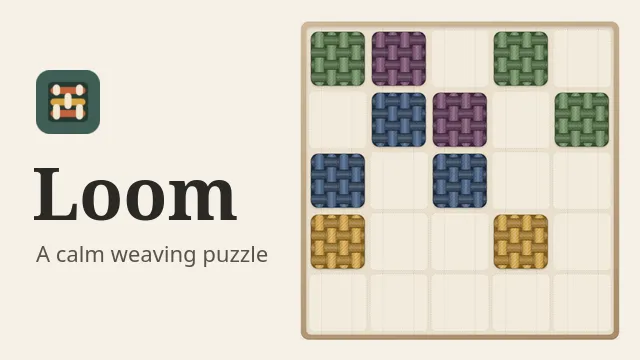
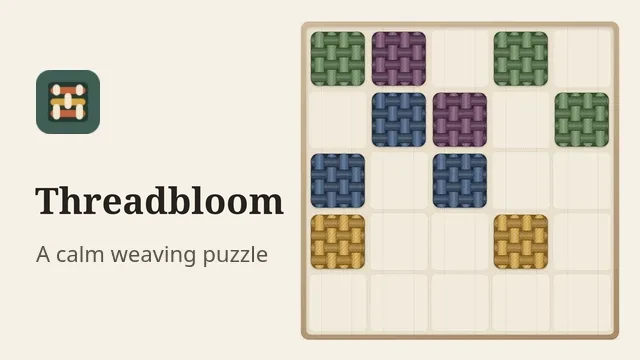
site: show Threadbloom instead of Loom in user-visible text
Titles, wordmark, manifest, games list, share/OG copy, and the three
pictures that had the old name drawn in them. The /loom/ address,
file names, CSS classes, and the loom. localStorage keys are unchanged.
Service worker cache: loom-v20 to loom-v21.

Public-output subset of CimTS/tinyhousegames 7190c57e (Mark REAL).
No playtest or Rotwatch files in this commit.

Changed region(s): [[0.0312, 0.4583, 0.4375, 0.6111]]

diff --git a/index.html b/index.html
@@ -2,7 +2,7 @@
 <html lang="en"><head><meta charset="utf-8">
 <meta name="viewport" content="width=device-width,initial-scale=1">
 <title>Tiny House Games</title>
-<meta name="description" content="Small games, made in a tiny house. Play Slotchinko, Dronesweeper and Loom free in your browser.">
+<meta name="description" content="Small games, made in a tiny house. Play Slotchinko, Dronesweeper and Threadbloom free in your browser.">
 <meta property="og:site_name" content="Tiny House Games">
 <meta property="og:title" content="Tiny House Games">
 <meta property="og:description" content="Small, cozy games, hand-made in a tiny house.">
@@ -11,7 +11,7 @@
 <meta property="og:image" content="https://tinyhousegames.com/og.jpg">
 <meta property="og:image:width" content="1200">
 <meta property="og:image:height" content="630">
-<meta property="og:image:alt" content="Tiny House Games title above cards for Slotchinko, Dronesweeper and Loom">
+<meta property="og:image:alt" content="Tiny House Games title above cards for Slotchinko, Dronesweeper and Threadbloom">
 <meta name="twitter:card" content="summary_large_image">
 <link rel="canonical" href="https://tinyhousegames.com/">
 <link rel="stylesheet" href="css/base.css">
@@ -35,7 +35,7 @@
 <div id="games-list"><!--games:start-->
 <article class="game-card"><img class="game-card__img" src="slotchinko.webp" alt="Slotchinko" loading="lazy" decoding="async"><h3 class="game-card__title">Slotchinko</h3><p class="game-card__blurb">Poker hands power a pachinko drop. Stack chips, beat the blinds.</p><a class="game-card__link pill" href="slotchinko/">▶ Play free in your browser</a></article>
 <article class="game-card"><img class="game-card__img" src="dronesweeper.webp" alt="Dronesweeper" loading="lazy" decoding="async"><h3 class="game-card__title">Dronesweeper</h3><p class="game-card__blurb">Minesweeper meets drone tactics. Read the noise, clear the site, stack the run.</p><a class="game-card__link pill" href="dronesweeper/">▶ Play free in your browser</a></article>
-<article class="game-card"><img class="game-card__img" src="loom.webp" alt="Loom" loading="lazy" decoding="async"><h3 class="game-card__title">Loom</h3><p class="game-card__blurb">A calm weaving puzzle. Bring matching threads together and see what patterns appear.</p><a class="game-card__link pill" href="loom/">▶ Play free in your browser</a></article>
+<article class="game-card"><img class="game-card__img" src="loom.webp" alt="Threadbloom" loading="lazy" decoding="async"><h3 class="game-card__title">Threadbloom</h3><p class="game-card__blurb">A calm weaving puzzle. Bring matching threads together and see what patterns appear.</p><a class="game-card__link pill" href="loom/">▶ Play free in your browser</a></article>
 <article class="game-card"><img class="game-card__img" src="geode-grove.webp" alt="Geode Grove" loading="lazy" decoding="async"><h3 class="game-card__title">Geode Grove</h3><p class="game-card__blurb">Match glowing gems deep in the grove. Coming soon to Google Play.</p></article>
 <article class="game-card"><img class="game-card__img" src="sparklewood.webp" alt="Sparklewood" loading="lazy" decoding="async"><h3 class="game-card__title">Sparklewood</h3><p class="game-card__blurb">A gentle, sparkly little world to wander. Coming soon.</p></article>
 <!--games:end--></div></section>

diff --git a/loom/index.html b/loom/index.html
@@ -4,22 +4,22 @@
   <meta charset="utf-8">
   <meta name="viewport" content="width=device-width, initial-scale=1, viewport-fit=cover">
   <meta name="theme-color" content="#F6F1E7">
-  <meta name="description" content="Loom: a calm thread-weaving pattern puzzle. Place threads, merge matching neighbors and weave patterns, with no clock and no wrong turn. A free browser game from Tiny House Games for phone and desktop.">
+  <meta name="description" content="Threadbloom: a calm thread-weaving pattern puzzle. Place threads, merge matching neighbors and weave patterns, with no clock and no wrong turn. A free browser game from Tiny House Games for phone and desktop.">
   <meta property="og:site_name" content="Tiny House Games">
-  <meta property="og:title" content="Loom: play free in your browser">
+  <meta property="og:title" content="Threadbloom: play free in your browser">
   <meta property="og:description" content="A calm weaving puzzle. Bring matching threads together and see what patterns appear.">
   <meta property="og:type" content="website">
   <meta property="og:url" content="https://tinyhousegames.com/loom/">
   <meta property="og:image" content="https://tinyhousegames.com/loom/og.jpg">
   <meta property="og:image:width" content="1200">
   <meta property="og:image:height" content="630">
-  <meta property="og:image:alt" content="Loom title beside a wooden loom of woven thread squares">
+  <meta property="og:image:alt" content="Threadbloom title beside a wooden loom of woven thread squares">
   <meta name="twitter:card" content="summary_large_image">
   <meta http-equiv="Content-Security-Policy" content="default-src 'self'; script-src 'self'; style-src 'self' 'unsafe-inline'; img-src 'self' data:; media-src 'none'; connect-src 'self'; object-src 'none'; base-uri 'none'">
   <link rel="manifest" href="./manifest.webmanifest">
   <link rel="icon" href="./icon.svg" type="image/svg+xml">
   <link rel="apple-touch-icon" href="./icons/apple-touch-icon.png">
-  <title>Loom · Tiny House Games</title>
+  <title>Threadbloom · Tiny House Games</title>
   <link rel="stylesheet" href="./css/base.css">
   <link rel="stylesheet" href="./css/layout.css">
   <link rel="stylesheet" href="./css/board.css">
@@ -32,7 +32,7 @@
 <body>
   <div id="app" class="app-shell">
     <header class="hud" id="hud">
-      <span class="wordmark"><span class="loom-mark" aria-hidden="true"></span>Loom</span>
+      <span class="wordmark"><span class="loom-mark" aria-hidden="true"></span>Threadbloom</span>
       <div class="hud-actions">
         <button id="menu-open" class="quiet-button hud-menu" type="button">Menu</button>
         <button id="sound-toggle" class="icon-button" type="button" aria-label="Sound is on. Turn sound off" aria-pressed="true">
@@ -174,7 +174,7 @@
       <h3 class="setting-group">Dyes</h3>
       <div id="dye-list" class="dye-list" role="radiogroup" aria-label="Dye palette"></div>
       <button id="reset-progress" class="danger-button" type="button">Erase all progress on this device</button>
-      <p class="version" id="version-label">Loom</p>
+      <p class="version" id="version-label">Threadbloom</p>
     </div>
   </section>
 

diff --git a/loom/js/main.js b/loom/js/main.js
@@ -294,14 +294,14 @@ function share() {
   if (d.mode === "campaign" || d.mode === "tutorial") { announce("Sharing works for daily and Zen pieces."); return; }
   const hash = d.mode === "studio" ? encodeStudio(d.cells) : encodeShare(d.seed, d.moves);
   const url = `${location.href.split("#")[0]}${hash}`;
-  if (navigator.share) navigator.share({ title: "My Loom piece", url }).catch(() => {});
+  if (navigator.share) navigator.share({ title: "My Threadbloom piece", url }).catch(() => {});
   else navigator.clipboard?.writeText(url).then(() => announce("Link copied.")).catch(() => {});
 }
 
 // --- wiring -----------------------------------------------------------
 const guard = fn => () => {
   try { fn(); } catch (err) {
-    console.error("Loom:", err);
+    console.error("Threadbloom:", err);
     $("welcome-error").textContent = "Something went wrong opening that piece. Please try again.";
   }
 };
@@ -343,7 +343,7 @@ $("reset-progress").addEventListener("click", () => {
   if (confirm("Erase settings, saved pieces, campaign progress, dyes and the gallery on this device?")) { storage.reset(); location.reload(); }
 });
 ui.bindSheetDismissal();
-$("version-label").textContent = `Loom version ${VERSION}`;
+$("version-label").textContent = `Threadbloom version ${VERSION}`;
 
 const syncSoundButton = () => {
   const on = settings.value.sound;

diff --git a/loom/js/storage.js b/loom/js/storage.js
@@ -16,7 +16,7 @@ export function humChoicePending(settings) {
 }
 
 // Whether to ask "Would you like sound?". `saved` is the stored settings, or null.
-// A new player is asked until they answer. Someone who already has Loom data
+// A new player is asked until they answer. Someone who already has Threadbloom data
 // from before the question existed keeps their setting and is never asked.
 export function soundChoicePending(saved, hasData) {
   if (saved?.soundAsked === false) return true;        // asked before, not answered yet
@@ -66,7 +66,7 @@ const sameCloth = (a, b) => a.seed === b.seed &&
 export const storage = {
   // The settings exactly as stored, or null if none were ever saved.
   getSavedSettings() { return read("settings", null); },
-  // True if Loom has stored anything at all on this device.
+  // True if Threadbloom has stored anything at all on this device.
   hasAny() {
     try { return Object.keys(localStorage).some(k => k.startsWith(PREFIX)); }
     catch { return false; }

diff --git a/loom/site-bar.css b/loom/site-bar.css
@@ -1,4 +1,4 @@
-/* Slim Tiny House Games strip on the Loom welcome screen. */
+/* Slim Tiny House Games strip on the Threadbloom welcome screen. */
 .site-bar{display:flex;justify-content:space-between;align-items:center;gap:8px;margin:0 0 18px;font:600 13px/1 var(--sans)}
 .site-bar a{display:inline-flex;align-items:center;gap:5px;min-height:40px;padding:0 14px;border-radius:999px;text-decoration:none;color:var(--accent);border:1px solid var(--line-strong);background:var(--surface);transition:background .2s}
 .site-bar a:hover,.site-bar a:focus-visible{background:var(--accent-soft)}

diff --git a/loom/js/art.js b/loom/js/art.js
@@ -1,4 +1,4 @@
-// All Loom art is drawn here as inline SVG. A thread tile is a small woven
+// All Threadbloom art is drawn here as inline SVG. A thread tile is a small woven
 // swatch: warp yarns (vertical) and weft yarns (horizontal) passing over and
 // under each other. Tier changes the weave, so tier is readable without color:
 //   tier 1  plain weave  – 4 chunky yarns, simple over-under

diff --git a/loom/js/render.js b/loom/js/render.js
@@ -146,7 +146,7 @@ export class Renderer {
     $("piece-title").textContent = title;
     $("piece-note").textContent = note;
     $("piece-note").classList.toggle("hidden", !note);
-    document.title = `${mode} · Loom`;
+    document.title = `${mode} · Threadbloom`;
   }
   setSelected(index) { this.selected = index; this.render(); }
   focusCursor() { this.cells[this.cursor]?.focus(); }

diff --git a/loom/js/audio.js b/loom/js/audio.js
@@ -1,4 +1,4 @@
-// Loom's soundscape: warm notes that swell in and fade slowly, in a soft room,
+// Threadbloom's soundscape: warm notes that swell in and fade slowly, in a soft room,
 // and a sound that follows the weaving. Everything is synthesized; nothing is loaded.
 //
 // A note has no strike. It rises over about a fifth of a second, like a hummed

diff --git a/loom/js/version.js b/loom/js/version.js
@@ -1,3 +1,3 @@
 // Shown at the bottom of Settings so players can tell which build they have.
 // Must match CACHE_VERSION in sw.js (checked by tests/pwa.test.js).
-export const VERSION = 20;
+export const VERSION = 21;

diff --git a/loom/sw.js b/loom/sw.js
@@ -1,5 +1,5 @@
 // Bump this whenever any shipped file changes so returning players get it.
-const CACHE_VERSION = "loom-v20";
+const CACHE_VERSION = "loom-v21";
 const APP_SHELL = [
   "./",
   "./index.html",
